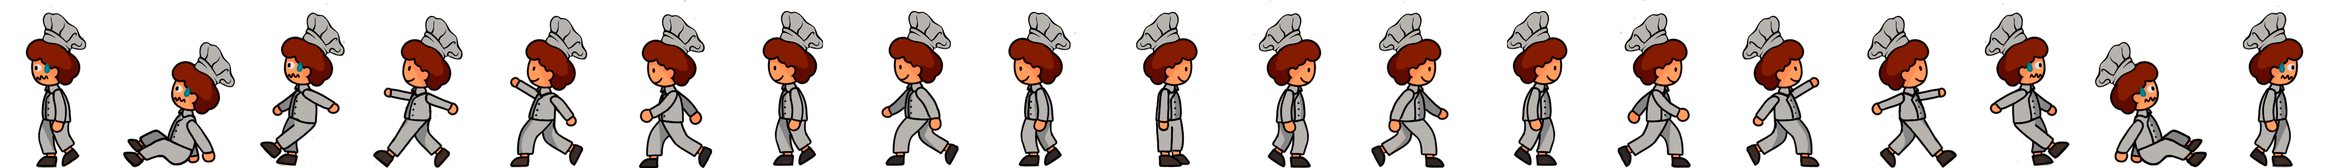
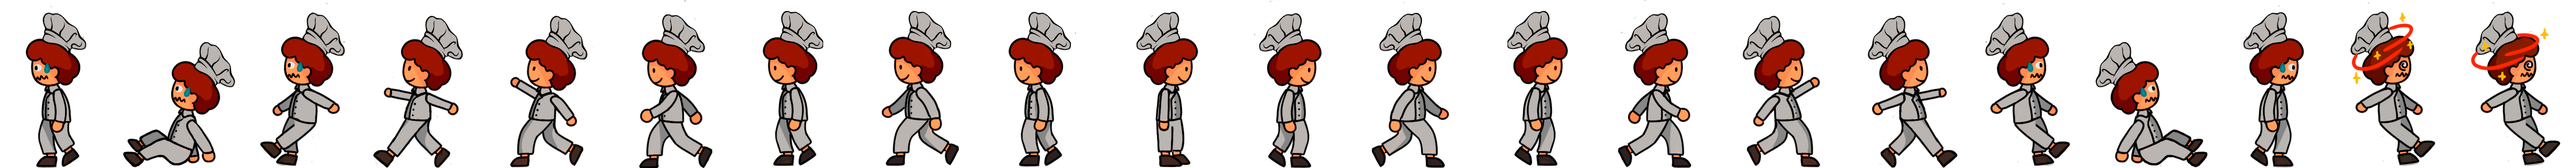
se agrego contenido en nivel3

diff --git a/src/scenes/Nivel3.js b/src/scenes/Nivel3.js
@@ -5,7 +5,14 @@ export default class Nivel3 extends Phaser.Scene {
     super("nivel3");
   }
 
-  init() {}
+  init() {
+    this.temporizador = 90;
+    this.puntajeFinal = 0;
+    this.vidas = 3;
+
+    this.juegoSuperado = false;
+    this.juegoPerdido = false;
+  }
 
   preload() {}
 
@@ -56,11 +63,11 @@ export default class Nivel3 extends Phaser.Scene {
       .setOrigin(0, 1)
       .setScrollFactor(0.95);
 
-      const capaAgua3 = map.addTilesetImage("aguaFrente", "aguaFrente");
-      const Agua3Layer = map
-        .createLayer("water3", capaAgua3, 0, 0)
-        .setOrigin(0, 1)
-        .setScrollFactor(1.2);
+    const capaAgua3 = map.addTilesetImage("aguaFrente", "aguaFrente");
+    const Agua3Layer = map
+      .createLayer("water3", capaAgua3, 0, 0)
+      .setOrigin(0, 1)
+      .setScrollFactor(1.2);
 
     const capaPlataformas = map.addTilesetImage("plataformas", "plataformas3");
     const plataformaLayer = map.createLayer("platforms", capaPlataformas, 0, 0);
@@ -89,9 +96,98 @@ export default class Nivel3 extends Phaser.Scene {
     this.physics.world.setBounds(0, 0, map.widthInPixels, map.heightInPixels);
     //para que la camara no se vaya fuera del mapa
     this.cameras.main.setBounds(0, 0, map.widthInPixels, map.heightInPixels);
+
+    this.hielos = this.physics.add.group();
+
+    this.physics.add.collider(
+      this.hielos,
+      plataformaLayer,
+      this.colisionHielos,
+      null,
+      this
+    );
+
+    this.physics.add.collider(
+      this.jugador,
+      this.hielos,
+      this.perderVida,
+      null,
+      this
+    );
+
+    this.time.addEvent({
+      delay: 2000,
+      callback: this.caidaHielos,
+      callbackScope: this,
+      loop: true,
+    });
+
+    //botón para la escena de pausa
+    const pausaBoton = this.add.sprite(2500, 110, "ajustes").setInteractive();
+    pausaBoton
+      .on("pointerup", () => {
+        this.scene.pause("nivel3");
+        this.scene.launch("pausa", { nivelActual: nivelActual });
+      })
+      .on("pointerover", () => {
+        pausaBoton.setTexture("ajustesPresionado");
+      })
+      .on("pointerout", () => {
+        pausaBoton.setTexture("ajustes");
+      })
+      .setScrollFactor(0);
+
+    //grupo almacenar los sprites de los corazones
+    this.corazones = this.add.group();
+
+    // Obtiene las dimensiones de la pantalla
+    const { width, height } = this.sys.game.canvas;
+
+    // Posición del extremo derecho superior
+    const posX = width - 505;
+    const posY = 70;
+
+    // Ajusta la posición de los corazones al extremo derecho superior
+    const separacionX = 200; // Separación horizontal entre los corazones
+    const separacionY = 0; // Separación vertical entre los corazones
+
+    this.corazones.children.iterate((corazon, index) => {
+      corazon.x = posX - index * separacionX;
+      corazon.y = posY + index * separacionY;
+    });
+
+    // Número total de corazones a mostrar
+    const totalCorazones = 3;
+
+    // Crea los sprites de los corazones y añáde al grupo
+    for (let i = 0; i < totalCorazones; i++) {
+      const corazon = this.corazones.create(posX + i * 40, posY, "corazon");
+      corazon.setScrollFactor(0); // Fija los corazones para que no se muevan con la cámara
+      corazon.setOrigin(1, 0); // Ajusta el origen del sprite para alinearlos correctamente
+      corazon.x -= i * (corazon.displayWidth + 45); // Ajusta la posición en el eje x con un espacio entre ellos
+    }
   }
 
   update() {
+    //inicia escena de juego superado
+    if (this.juegoSuperado) {
+      //llama a funcion para calcular el puntaje
+      this.calcularPuntaje();
+
+      //inicio de escena
+      this.scene.start("nivelSuperado", {
+        puntajeFinal: this.puntajeFinal,
+        nivelActual: "nivel3", //traspaso de data
+      });
+    }
+
+    //inicia escena de juego perdido
+    if (this.juegoPerdido) {
+      this.scene.start("nivelPerdido", {
+        nivelActual: "nivel3", //traspaso de data
+      });
+    }
+
     //movimiento de personaje
     if (this.cursors.left.isDown) {
       this.jugador.setVelocityX(-600);
@@ -122,35 +218,86 @@ export default class Nivel3 extends Phaser.Scene {
         this.jugador.anims.play("jumpLeft");
       }
     }
-    //movimiento de personaje
-    if (this.cursors.left.isDown) {
-      this.jugador.setVelocityX(-600);
-      if (this.jugador.body.blocked.down) {
-        this.jugador.anims.play("left", true);
-      } else {
-        this.jugador.anims.play("jumpLeft", true);
-      }
-    } else if (this.cursors.right.isDown) {
-      this.jugador.setVelocityX(600);
-      if (this.jugador.body.blocked.down) {
-        this.jugador.anims.play("right", true);
-      } else {
-        this.jugador.anims.play("jumpRight", true);
-      }
-    } else {
-      this.jugador.setVelocityX(0);
-      if (this.jugador.body.blocked.down) {
-        this.jugador.anims.play("turn");
-      }
-    }
+  }
 
-    if (this.cursors.up.isDown && this.jugador.body.blocked.down) {
-      this.jugador.setVelocityY(-900);
-      if (this.jugador.body.velocity.x > 0) {
-        this.jugador.anims.play("jumpRight");
-      } else if (this.jugador.body.velocity.x < 0) {
-        this.jugador.anims.play("jumpLeft");
-      }
+  perderVida(jugador, hielos) {
+    hielos.disableBody(true, true);
+
+    const explosion = this.add.sprite(hielos.x, hielos.y, "explosion2");
+    explosion.play("explosion2");
+
+    hielos.destroy();
+    this.time.delayedCall(1000, () => {
+      explosion.destroy();
+    });
+
+    // Deshabilitar la interacción del jugador temporalmente
+    this.jugador.disableBody(true, true);
+
+    // Reproducir la animación de daño del personaje
+    this.jugador.setAlpha(0.5); // Hacer el personaje semitransparente
+
+    const mareo = this.add.sprite(jugador.x, jugador.y, "personaje");
+    mareo.play("damageUp");
+
+    this.time.delayedCall(1000, () => {
+      mareo.destroy();
+    });
+
+    // Establecer un temporizador para restaurar el estado del jugador después de cierto tiempo
+    this.time.delayedCall(1000, () => {
+      // Restaurar el estado del jugador
+      this.jugador.enableBody(true, jugador.x, jugador.y, true, true);
+      this.jugador.setAlpha(1); // Restaurar la opacidad del personaje
+    });
+
+    // restar una vida al jugador
+    this.vidas--;
+
+    console.log(this.vidas);
+
+    // cambiar el sprite del corazón a uno gris
+    const corazon = this.corazones.getChildren()[this.vidas];
+    corazon.setTexture("corazonGris");
+
+    if (this.vidas <= 0) {
+      // si no quedan vidas, el juego se pierde
+      this.juegoPerdido = true;
     }
+  }
+
+  caidaHielos() {
+    // Create and position the obstacle above the player
+    const hielos = this.physics.add.sprite(
+      this.jugador.x,
+      this.jugador.y - 1500,
+      "hielos"
+    );
+    // Set obstacle properties, such as velocity and gravity
+    hielos.setVelocityY(300);
+    hielos.setGravityY(1000);
+    hielos.setCollideWorldBounds(true);
+
+    this.hielos.add(hielos); // Agregar el objeto de hielo al grupo
+  }
+
+  colisionHielos(hielos) {
+    hielos.disableBody(true, true);
+
+    const explosion = this.add.sprite(hielos.x, hielos.y, "explosion2");
+    explosion.play("explosion2");
+
+    hielos.destroy();
+    this.time.delayedCall(1000, () => {
+      explosion.destroy();
+    });
+  }
+
+  calcularPuntaje() {
+    const puntajeElementos = (this.cantidadHarina + this.cantidadMaiz) * 100;
+    const puntajeVidas = this.vidas * 500;
+    const puntajeTiempo = this.temporizador * 10;
+
+    this.puntajeFinal = puntajeElementos + puntajeVidas + puntajeTiempo;
   }
 }

diff --git a/src/scenes/Precarga.js b/src/scenes/Precarga.js
@@ -61,7 +61,7 @@ export default class Precarga extends Phaser.Scene {
     this.load.image("hielosChicos", "./public/assets/images/nivel3/hielosChicos.png");
     this.load.image("hielosGrandes", "./public/assets/images/nivel3/hielosGrandes.png");
     this.load.image("plataformas3", "./public/assets/images/nivel3/plataformas.png");
-
+    this.load.image("hielos", "./public/assets/images/nivel3/hielos.png");
 
     this.load.image("jugar", "./public/assets/images/jugar.png");
     this.load.image("ayuda", "./public/assets/images/ayuda.png");
@@ -125,6 +125,12 @@ export default class Precarga extends Phaser.Scene {
     this.load.spritesheet("explosion", "./public/assets/images/explosion.png", {
       frameWidth: 150,
       frameHeight: 150,
+    });
+
+    
+    this.load.spritesheet("explosion2", "./public/assets/images/nivel3/explosion.png", {
+      frameWidth: 200,
+      frameHeight: 200,
     });
   }
 
@@ -196,6 +202,16 @@ export default class Precarga extends Phaser.Scene {
     });
 
     this.anims.create({
+      key: "damageUp",
+      frames: this.anims.generateFrameNumbers("personaje", {
+        start: 19,
+        end: 20,
+      }),
+      frameRate: 10,
+      repeat: 0,
+    });
+
+    this.anims.create({
       key: "enemiesLeft",
       frames: this.anims.generateFrameNumbers("enemigo", {
         start: 0,
@@ -226,6 +242,16 @@ export default class Precarga extends Phaser.Scene {
       hideOnComplete: true,
     });
 
+    this.anims.create({
+      key: "explosion2",
+      frames: this.anims.generateFrameNumbers("explosion2", {
+        start: 0,
+        end: 3,
+      }),
+      frameRate: 10,
+      repeat: 0,
+      hideOnComplete: true,
+    });
     // init scene juego
     this.scene.start("nivel3");
   }

diff --git a/src/scenes/NivelPerdido.js b/src/scenes/NivelPerdido.js
@@ -32,6 +32,8 @@ export default class NivelPerdido extends Phaser.Scene {
             this.scene.start("nivel1");
           } else if (this.nivelActual === "nivel2") {
             this.scene.start("nivel2");
+          } else if (this.nivelActual === "nivel3"){ 
+            this.scene.start("nivel3");
           }
         })
         .on("pointerover", () => {

diff --git a/src/scenes/Nivel2.js b/src/scenes/Nivel2.js
@@ -359,6 +359,10 @@ export default class Nivel2 extends Phaser.Scene {
 
   perderVida() {
 
+
+ 
+
+
       
     if (this.jugador.body.blocked.left) {
       this.jugador.x += 150;
